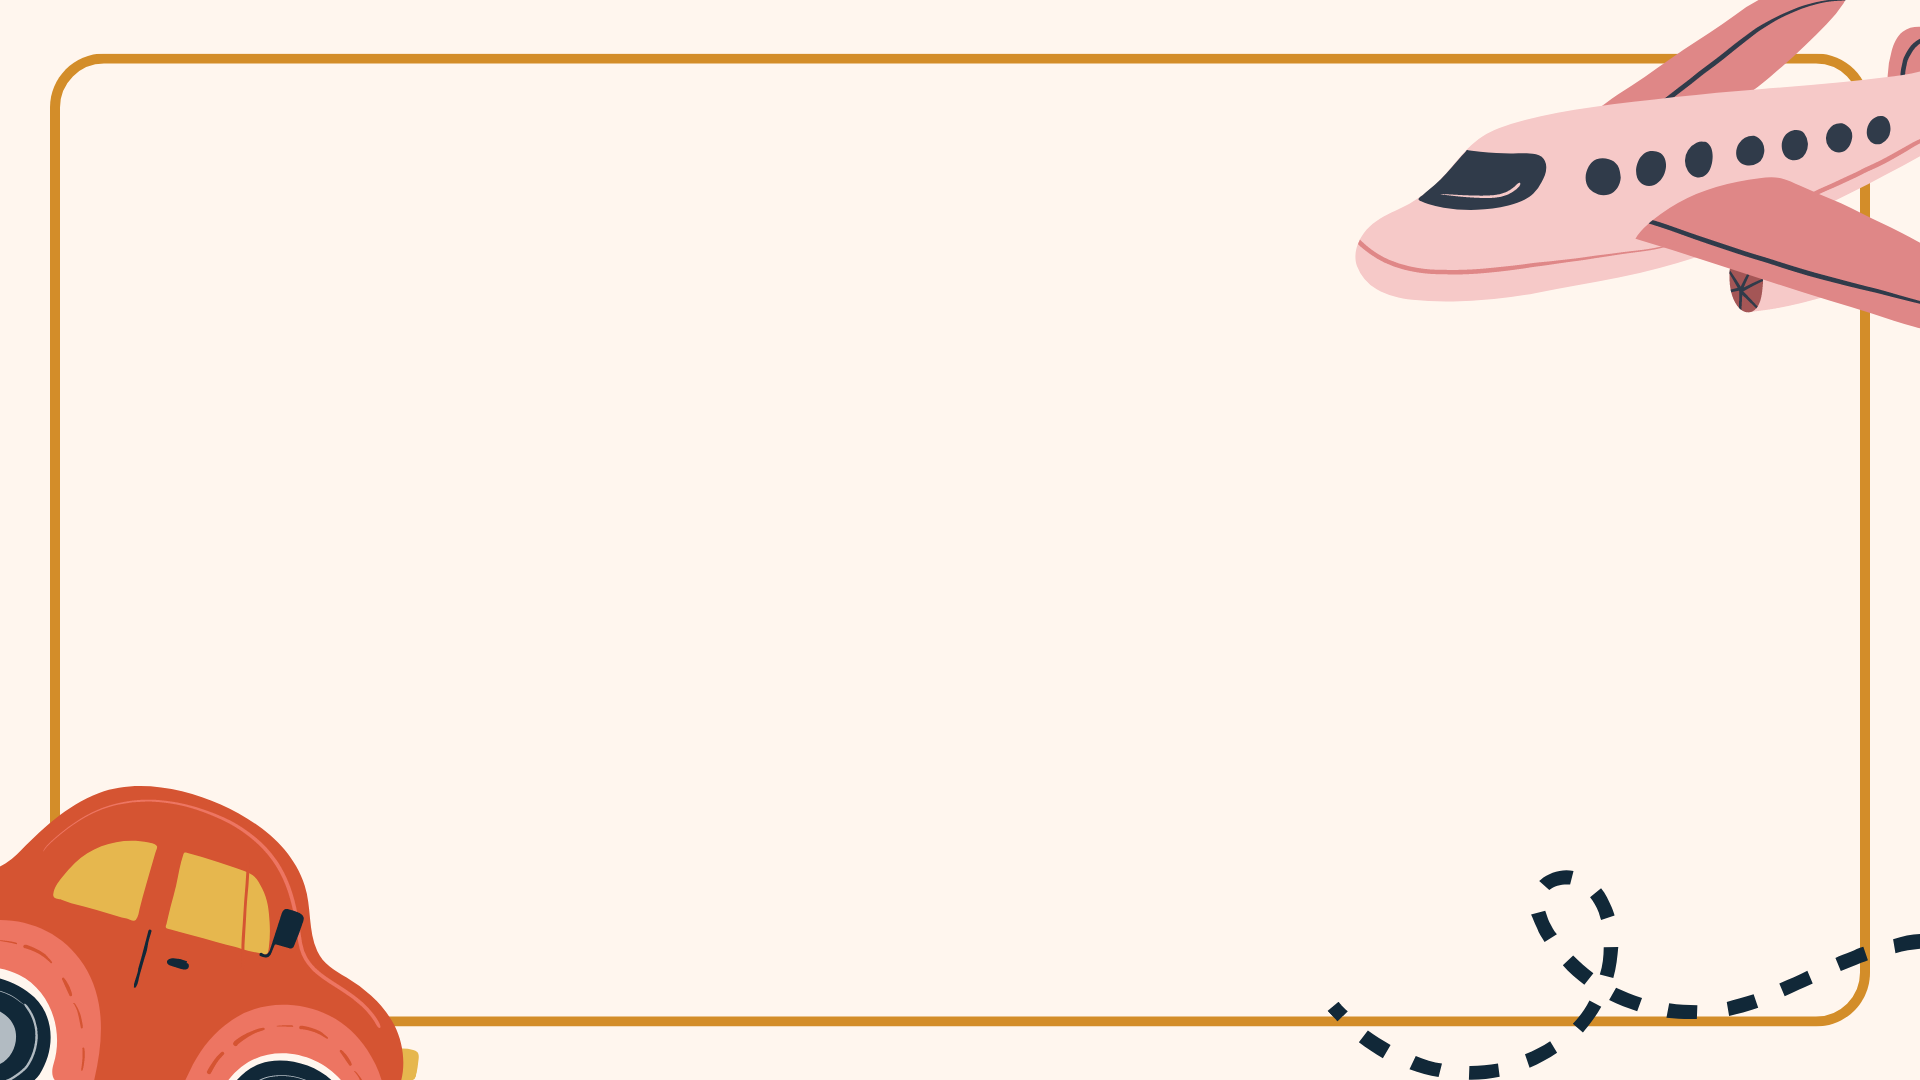
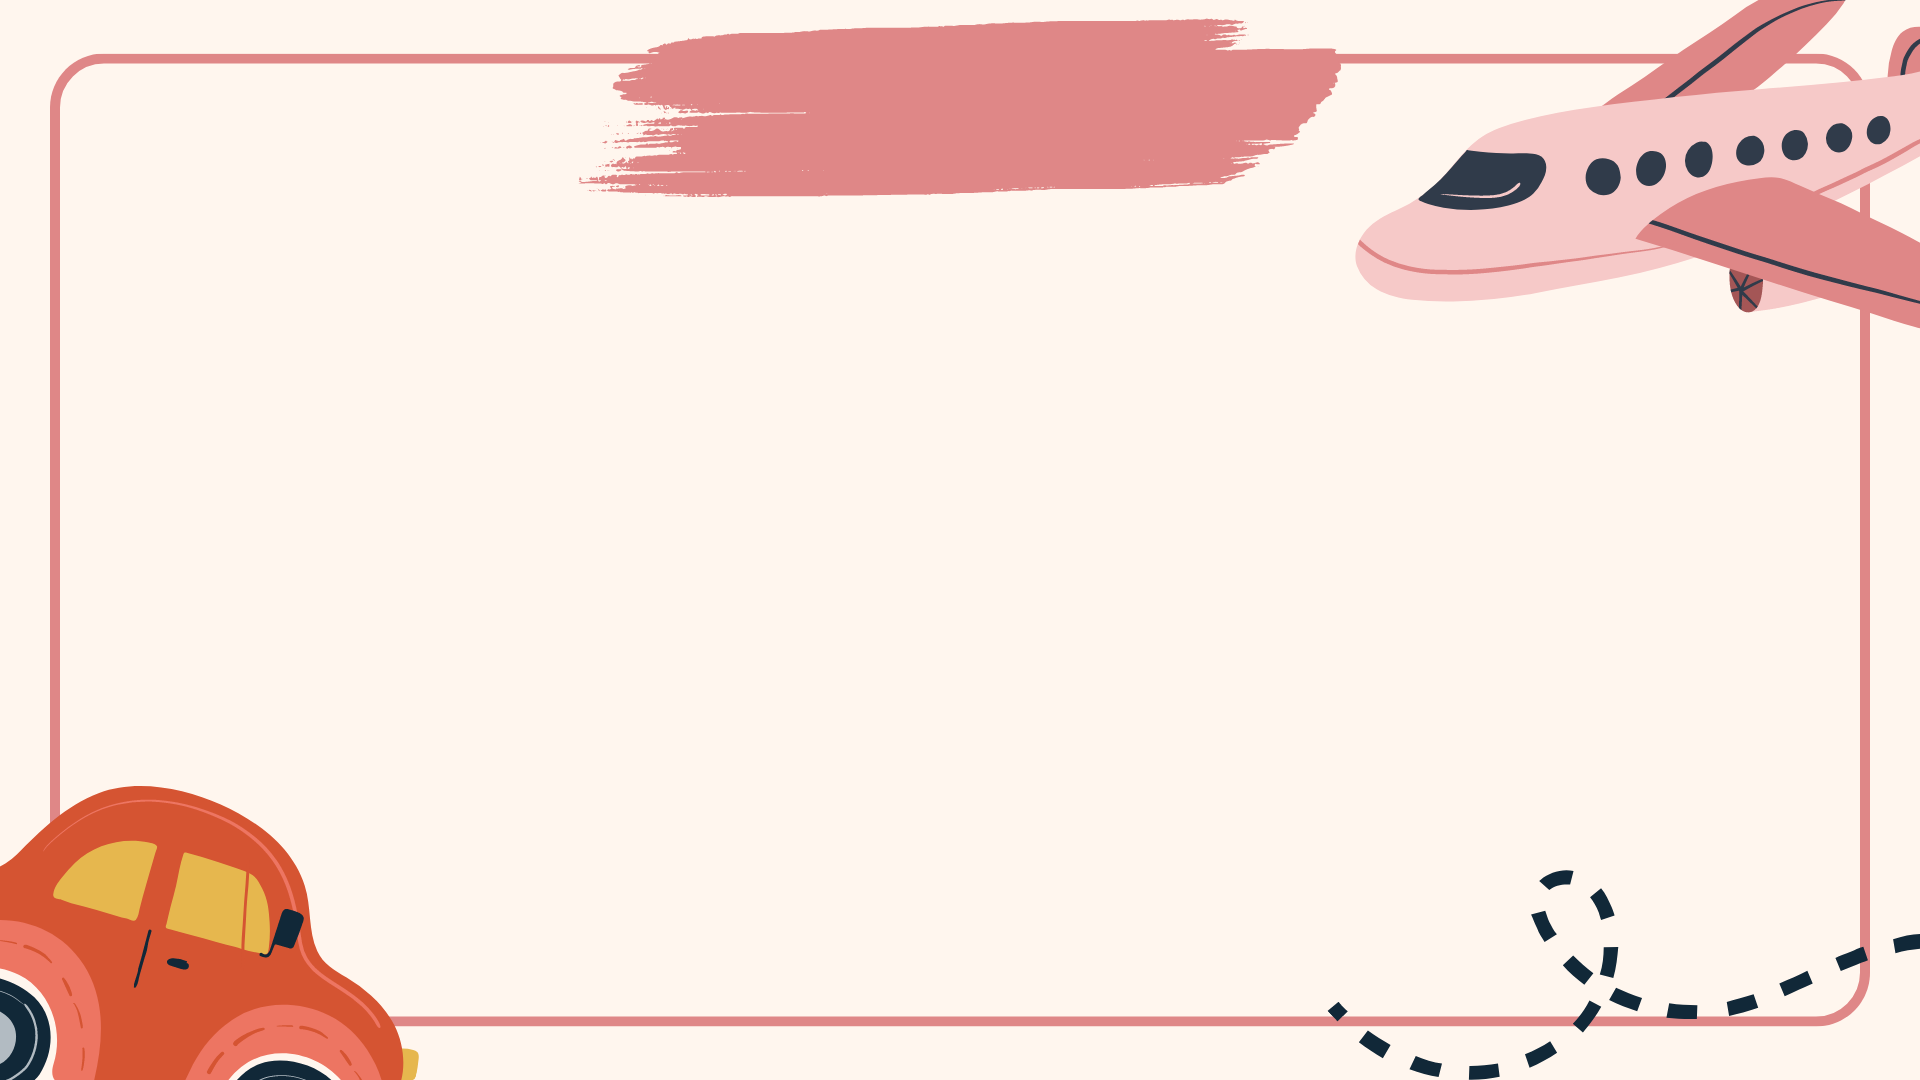
add: the search page
+ add search-view.fxml
+ modify layout.png

diff --git a/GUI/src/main/java/ntou/cs/java2023/travelmaker/StartController.java b/GUI/src/main/java/ntou/cs/java2023/travelmaker/StartController.java
@@ -3,12 +3,38 @@ package ntou.cs.java2023.travelmaker;
 import javafx.fxml.FXML;
 import javafx.scene.control.Button;
 import javafx.scene.layout.AnchorPane;
+import javafx.event.ActionEvent;
+import javafx.fxml.FXMLLoader;
+import javafx.scene.Scene;
+import javafx.stage.Stage;
+import javafx.scene.Parent;
+
+import java.io.IOException;
 
 public class StartController {
     @FXML
     private AnchorPane anchorPane;
+    @FXML
+    private AnchorPane searchAnchorPane;
 
     @FXML
     private Button startButton;
 
+    @FXML
+    private void clickStartButton(ActionEvent event) {
+        try {
+            Stage currentStage = (Stage) startButton.getScene().getWindow();
+            currentStage.close();
+
+            Stage searchStage = new Stage();
+            Parent root = FXMLLoader.load(getClass().getResource("search-view.fxml"));
+            searchStage.setTitle("Go Where?");
+            searchStage.setResizable(false);
+            searchStage.setScene(new Scene(root));
+            searchStage.show();
+
+        } catch (IOException e) {
+            e.printStackTrace();
+        }
+    }
 }
